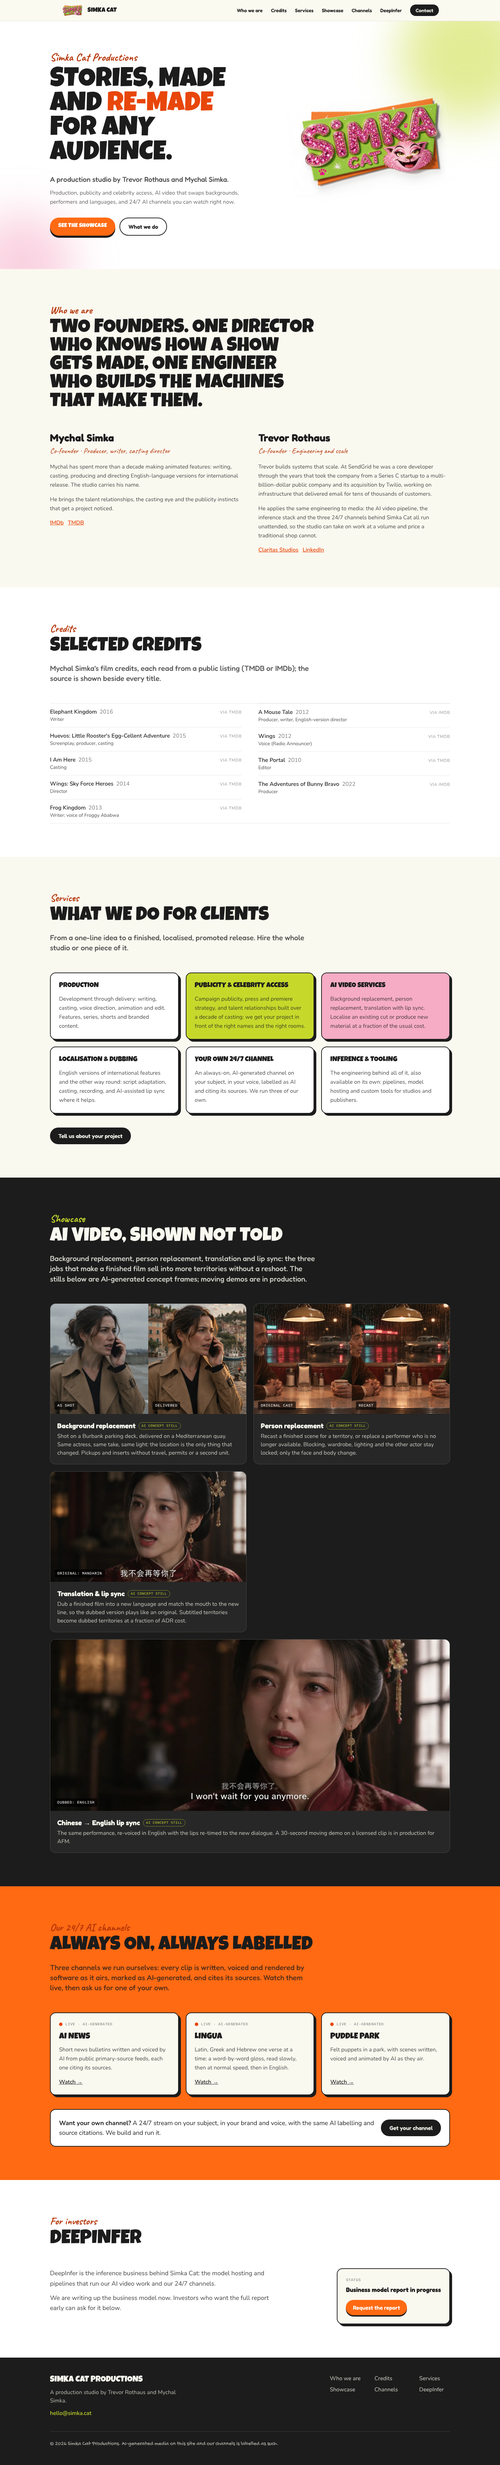
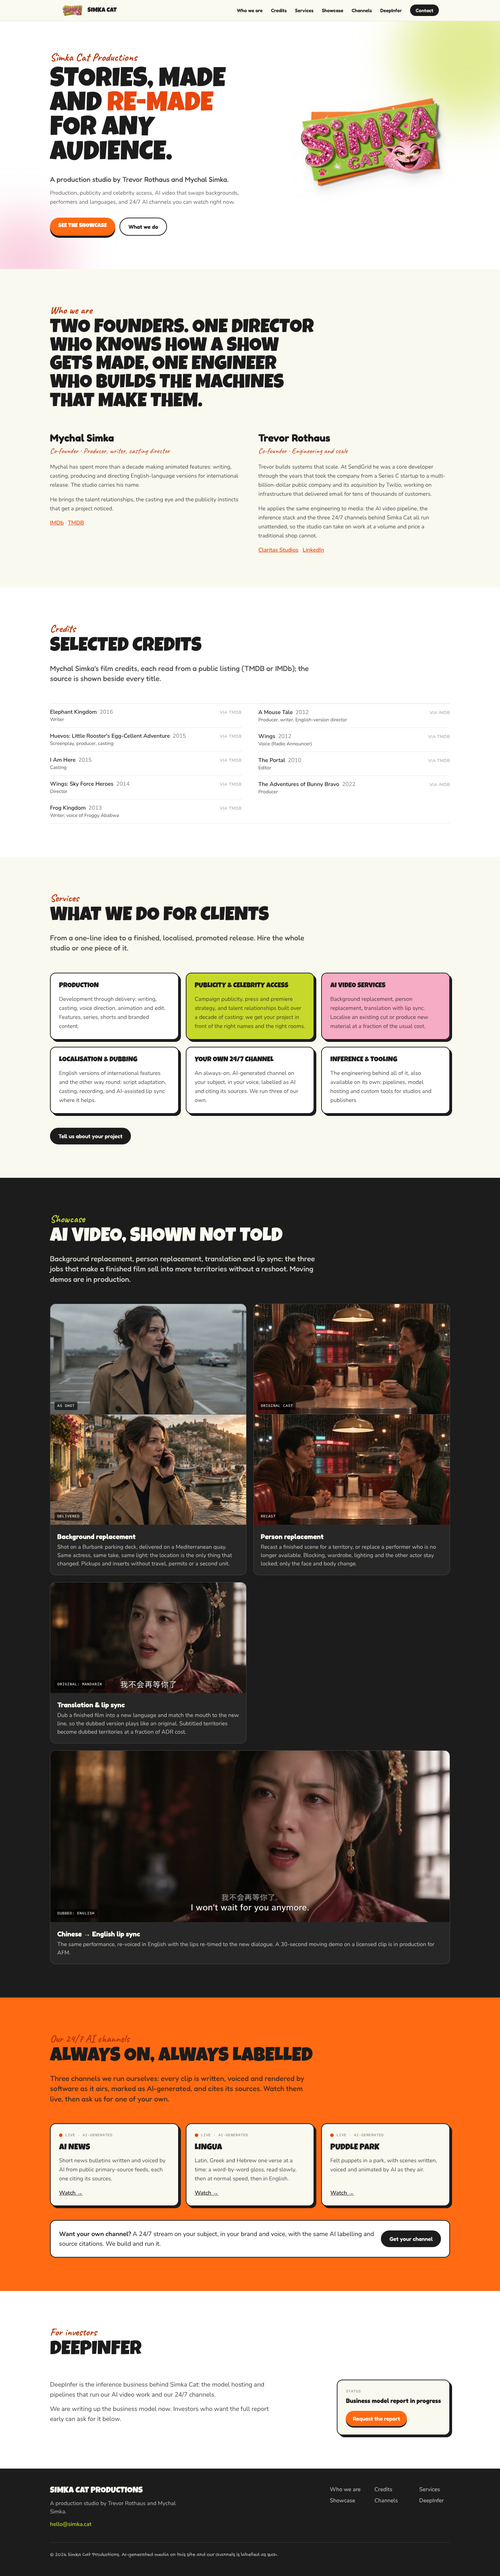
Showcase: drop concept-still badges, stack before/after frames uncropped
Side-by-side halves cropped the diner two-shot so the recast actor's
face was cut off. Before/after tiles now stack the two full 16:9 frames
vertically, so every card shows its whole frame. Removes the
"AI concept still" label from all tiles and the intro.

Claude-Session: https://claude.ai/code/session_01CP1hmVNj2LSB4J9c4UqVBf

diff --git a/src/components/Showcase.jsx b/src/components/Showcase.jsx
@@ -18,17 +18,30 @@ Still.propTypes = { src: PropTypes.string.isRequired, alt: PropTypes.string.isRe
 
 function Media({ item }) {
   if (item.video) {
-    return <video src={item.video} poster={item.poster} className="h-full w-full object-cover" autoPlay muted loop playsInline controls />
-  }
-  if (item.kind === 'before-after') {
     return (
-      <div className="grid h-full grid-cols-2">
-        <Still src={item.before.src} alt={item.before.alt} label={item.before.label} />
-        <Still src={item.after.src} alt={item.after.alt} label={item.after.label} />
+      <div className="aspect-video w-full">
+        <video src={item.video} poster={item.poster} className="h-full w-full object-cover" autoPlay muted loop playsInline controls />
       </div>
     )
   }
-  return <Still src={item.src} alt={item.alt} label={item.label} />
+  if (item.kind === 'before-after') {
+    // Stacked, full width, same aspect as the source frames: nothing is cropped.
+    return (
+      <div className="grid grid-rows-2 gap-px bg-cream/15">
+        <div className="aspect-video w-full bg-ink">
+          <Still src={item.before.src} alt={item.before.alt} label={item.before.label} />
+        </div>
+        <div className="aspect-video w-full bg-ink">
+          <Still src={item.after.src} alt={item.after.alt} label={item.after.label} />
+        </div>
+      </div>
+    )
+  }
+  return (
+    <div className={`${item.featured ? 'aspect-[21/9]' : 'aspect-video'} w-full`}>
+      <Still src={item.src} alt={item.alt} label={item.label} />
+    </div>
+  )
 }
 Media.propTypes = { item: PropTypes.object.isRequired }
 
@@ -39,7 +52,7 @@ export default function Showcase() {
       tone="dark"
       eyebrow="Showcase"
       title="AI video, shown not told"
-      intro="Background replacement, person replacement, translation and lip sync: the three jobs that make a finished film sell into more territories without a reshoot. The stills below are AI-generated concept frames; moving demos are in production."
+      intro="Background replacement, person replacement, translation and lip sync: the three jobs that make a finished film sell into more territories without a reshoot. Moving demos are in production."
     >
       <div className="grid gap-5 md:grid-cols-2">
         {showcase.map((item) => (
@@ -47,16 +60,9 @@ export default function Showcase() {
             key={item.id}
             className={`group overflow-hidden rounded-2xl border border-cream/15 bg-white/5 ${item.featured ? 'md:col-span-2' : ''}`}
           >
-            <div className={`${item.featured ? 'aspect-[21/9]' : 'aspect-video'} w-full overflow-hidden`}>
-              <Media item={item} />
-            </div>
+            <Media item={item} />
             <figcaption className="flex flex-col gap-1 p-5">
-              <div className="flex flex-wrap items-center gap-2">
-                <h3 className="font-fredoka text-xl font-bold text-cream">{item.title}</h3>
-                <span className="rounded-full border border-slime/60 px-2 py-0.5 font-mono text-[10px] uppercase tracking-wider text-slime">
-                  {item.video ? 'demo' : 'AI concept still'}
-                </span>
-              </div>
+              <h3 className="font-fredoka text-xl font-bold text-cream">{item.title}</h3>
               <p className="text-cream/75">{item.caption}</p>
             </figcaption>
           </figure>

diff --git a/.jmacs/HANDOFF.md b/.jmacs/HANDOFF.md
@@ -19,6 +19,9 @@ PR only; no production deploy until Trevor approves.
 - Showcase now uses six AI-generated concept stills (Higgsfield gpt_image_2_6, ~1.5 credits total) in public/showcase/:
   parking deck → Mediterranean quay, diner recast, Mandarin original → English dub. Labelled "AI concept still".
 
+## Done (round 4, Trevor's feedback)
+- Removed every "AI concept still" badge; before/after frames now stack vertically at full width so no actor is cropped.
+
 ## Pending (needs Trevor)
 - Final read of bios/credits; add headshots if wanted (founders[].photo).
 - Supply moving demos when ready (add `video:` to a showcase tile), esp. the Chinese→English lip-sync clip.
